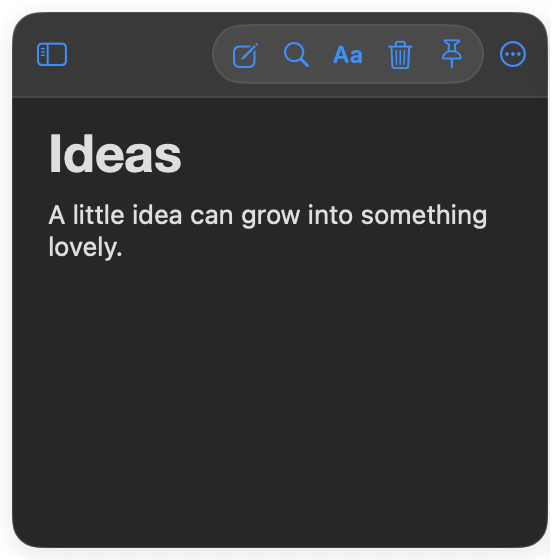
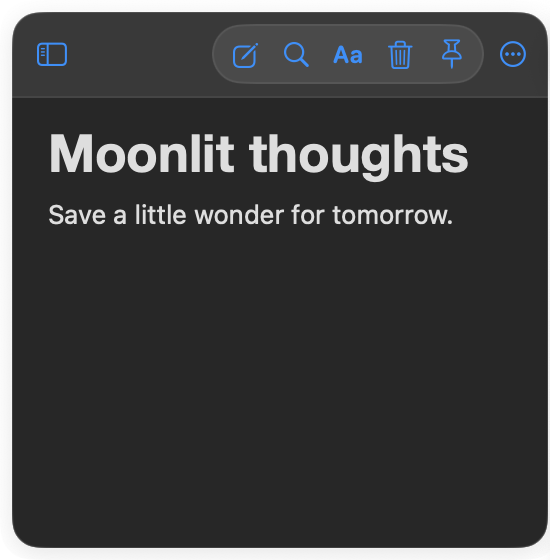
Give README gallery distinct note examples

Changed region(s): [[0.0911, 0.2429, 0.85, 0.3339], [0.0911, 0.3643, 0.8804, 0.4857]]

diff --git a/README.md b/README.md
@@ -4,11 +4,11 @@
 
 Quick Notes keeps a note close while you work. Open the floating window from the menu bar or with your own keyboard shortcut, write something down, then hide it and carry on. Your notes save automatically on your Mac.
 
-## One idea, any size
+## From ideas to bigger ideas
 
-<img src="docs/screenshots/desktop-preview.jpg" alt="The same Ideas note in small and large Quick Notes windows on a clean dark desktop" width="850">
+<img src="docs/screenshots/desktop-preview.jpg" alt="A compact Ideas note beside a larger Bigger ideas note in Quick Notes" width="850">
 
-*Catch a tiny thought, then give it room to grow. Both windows are real Quick Notes captures of the same note. The clean desktop background is illustrative and shows no personal content.*
+*Catch a thought before it flies away, then make room for bigger ideas. Resize the note to fit the moment.*
 
 ## What it does
 
@@ -37,11 +37,11 @@ Quick Notes keeps a note close while you work. Open the floating window from the
 ## Light and dark
 
 <p>
-  <img src="docs/screenshots/light.png" alt="The same Ideas note in Quick Notes light appearance" width="300">
-  <img src="docs/screenshots/dark.png" alt="The same Ideas note in Quick Notes dark appearance" width="300">
+  <img src="docs/screenshots/light.png" alt="Sunlit plans note in Quick Notes light appearance" width="300">
+  <img src="docs/screenshots/dark.png" alt="Moonlit thoughts note in Quick Notes dark appearance" width="300">
 </p>
 
-*Same little idea, different mood. Quick Notes can follow your Mac automatically, or you can select Light or Dark in Settings → Appearance.*
+*A bright thought for daytime, a quiet one for night. Quick Notes can follow your Mac automatically, or you can select Light or Dark in Settings → Appearance.*
 
 ## Install
 
